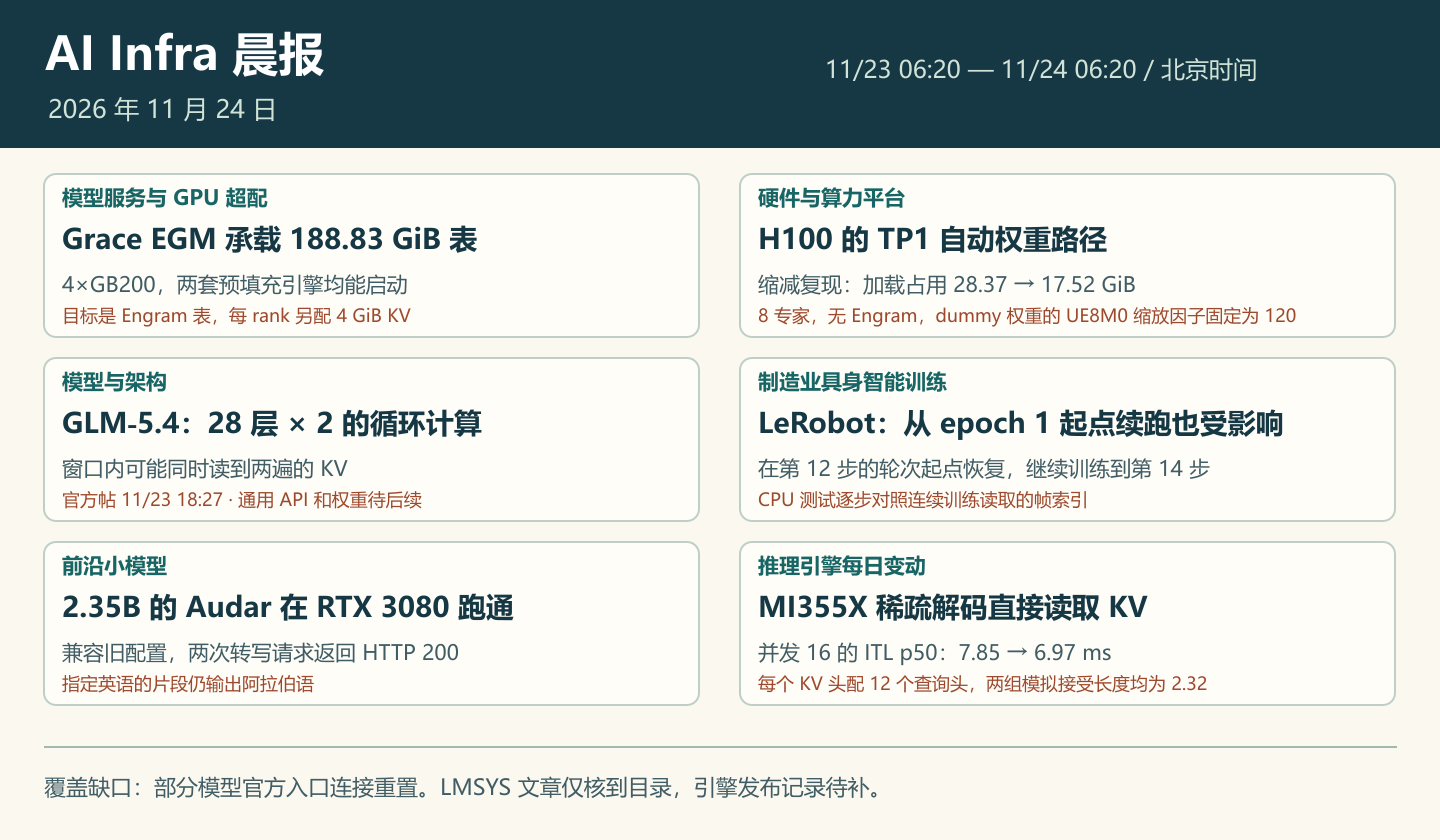
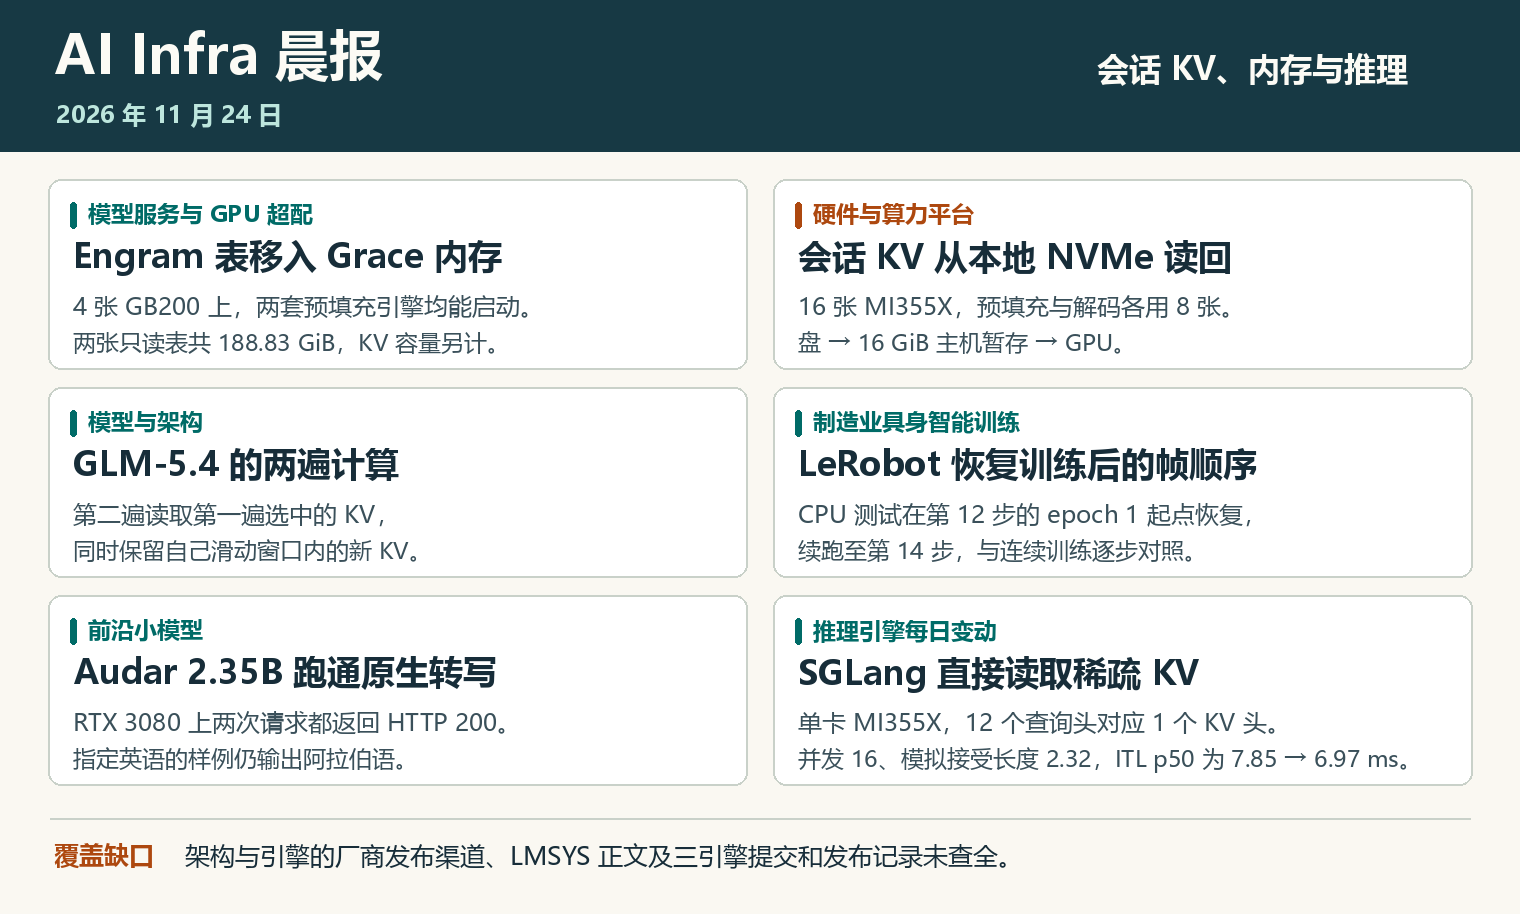
docs(report): 修正 11 月 24 日晨报的来源与实验条件

Changed region(s): [[0.0, 0.031, 1.0, 0.9595], [0.5625, 0.0619, 0.9375, 0.0929]]

diff --git a/reports/2026-11-24/articles/small-model-status.md b/reports/2026-11-24/articles/small-model-status.md
@@ -1,11 +1,11 @@
 # 前沿小模型：2.35B 的 Audar 在 RTX 3080 跑通转写，英语片段仍需单独测
 
-部署语音模型要先回答两个问题：服务能否加载现有权重，以及它能否按要求转写。北京时间 11 月 23 日 23:01，vLLM 合入 #69226，修复 Audar-ASR-V1-Turbo 所用的一种旧配置写法。作者模型库可定位到同一 BF16 快照 `371428bea4`，仓库记录的最近修改日期为 8 月 20 日。本期的变化是引擎兼容性。[合入 PR](https://github.com/vllm-project/vllm/pull/69226) · [作者的固定模型版本](https://huggingface.co/audarai/Audar-ASR-V1-Turbo/tree/371428bea487c7aec82b27dc21f8d4324002e98e)
+部署语音模型要先回答两个问题：服务能否加载现有权重，以及它能否按要求转写。北京时间 11 月 23 日 23:01，vLLM 合入 #69226，修复 Audar-ASR-V1-Turbo 所用的一种旧配置写法。作者模型库可定位到同一 BF16 快照 `371428bea4`，仓库记录的最近修改日期为 8 月 20 日。本期的变化是引擎兼容性。[合入 PR](https://github.com/vllm-project/vllm/pull/69226) · [作者的固定模型版本](https://huggingface.co/api/models/audarai/Audar-ASR-V1-Turbo/revision/371428bea487c7aec82b27dc21f8d4324002e98e?blobs=true)
 
-固定模型卡列出音频编码器约 0.32B、语言模型解码器约 2.03B，总计 2,349,217,408 个参数。根目录 BF16 权重文件为 4,698,521,568 字节（约 4.38 GiB）。这是文件大小，推理还要为激活值和运行状态留出显存。[固定模型卡](https://huggingface.co/audarai/Audar-ASR-V1-Turbo/blob/371428bea487c7aec82b27dc21f8d4324002e98e/README.md) · [固定权重清单](https://huggingface.co/api/models/audarai/Audar-ASR-V1-Turbo/revision/371428bea487c7aec82b27dc21f8d4324002e98e?blobs=true)
+固定模型卡列出音频编码器约 0.32B、语言模型解码器约 2.03B，总计 2,349,217,408 个参数。根目录 BF16 权重文件为 4,698,521,568 字节（约 4.38 GiB）。这是文件大小，推理还要为激活值和运行状态留出显存。[固定模型卡](https://huggingface.co/audarai/Audar-ASR-V1-Turbo/raw/371428bea487c7aec82b27dc21f8d4324002e98e/README.md) · [固定权重清单](https://huggingface.co/api/models/audarai/Audar-ASR-V1-Turbo/revision/371428bea487c7aec82b27dc21f8d4324002e98e?blobs=true)
 
-旧快照在语音模型的文本子配置使用 `qwen3_asr_text`，原生加载器无法识别。修复在原始嵌套 Qwen3‑ASR 配置分支中，统一将文本子配置的 `model_type` 写为 `qwen3`。PR 作者在同一张 RTX 3080 上用相同的 vLLM 命令和参数测试，双方均未启用模型仓库自带的执行代码。基线在初始化时报告子配置类型未知；应用补丁后，服务就绪，两次转写请求均返回 HTTP 200。[启动记录](https://github.com/vllm-project/vllm/pull/69226) · [代码和测试差异](https://github.com/vllm-project/vllm/pull/69226/files) · [固定配置](https://huggingface.co/audarai/Audar-ASR-V1-Turbo/raw/371428bea487c7aec82b27dc21f8d4324002e98e/config.json)
+旧快照在语音模型的文本子配置使用 `qwen3_asr_text`，原生加载器无法识别。修复在原始嵌套 Qwen3‑ASR 配置分支中，统一将文本子配置的 `model_type` 写为 `qwen3`。PR 作者在同一张 RTX 3080 上用相同的 vLLM 命令和参数测试，双方均未启用模型仓库自带的执行代码。基线在初始化时报告子配置类型未知；应用补丁后，服务就绪，两次转写请求均返回 HTTP 200。[启动记录](https://github.com/vllm-project/vllm/pull/69226) · [代码和测试差异](https://patch-diff.githubusercontent.com/raw/vllm-project/vllm/pull/69226.diff) · [固定配置](https://huggingface.co/audarai/Audar-ASR-V1-Turbo/raw/371428bea487c7aec82b27dc21f8d4324002e98e/config.json)
 
-一段公开英语音频指定 `language=en` 后仍返回阿拉伯语。这个样例足以说明语言行为值得复测，不能用两次 HTTP 200 来给转写质量打分。模型卡另报阿拉伯语 ASR 榜单平均词错率（WER）23.2%、平均字符错率（CER）9.2%。这组榜单成绩与补丁作者在 RTX 3080 上的两次请求来自不同实验。在自己的音频和语言条件下，仍要分别核对词错率、实时率和峰值显存。[模型卡的评测范围](https://huggingface.co/audarai/Audar-ASR-V1-Turbo/blob/371428bea487c7aec82b27dc21f8d4324002e98e/README.md) [转写示例及限制](https://github.com/vllm-project/vllm/pull/69226)
+一段公开英语音频指定 `language=en` 后仍返回阿拉伯语。这个样例足以说明语言行为值得复测，不能用两次 HTTP 200 来给转写质量打分。模型卡另报六个阿拉伯语 ASR 测试集的平均词错率（WER）23.17%、平均字符错率（CER）9.20%。这组榜单成绩与补丁作者在 RTX 3080 上的两次请求来自不同实验。在自己的音频和语言条件下，仍要分别核对词错率、实时率和峰值显存。[模型卡的评测范围](https://huggingface.co/audarai/Audar-ASR-V1-Turbo/raw/371428bea487c7aec82b27dc21f8d4324002e98e/README.md) [转写示例及限制](https://github.com/vllm-project/vllm/pull/69226)
 
 本期另查了 HuggingFaceTB、Google Gemma 和 Microsoft Phi 的模型列表，每个入口取回 50 项，所查范围没有主窗内的创建或修改记录。[三个目录之一：HuggingFaceTB](https://huggingface.co/api/models?author=HuggingFaceTB&direction=-1&expand=createdAt&expand=lastModified&expand=sha&limit=50&sort=lastModified)

diff --git a/reports/2026-11-24/articles/inference-engines.md b/reports/2026-11-24/articles/inference-engines.md
@@ -2,11 +2,13 @@
 
 ## vLLM
 
-本期合并查询返回 61 项。服务篇讨论 #68685 的 Grace EGM 后备，硬件篇讨论 #69446 的 H100 权重路径。两项各自在所属专题计一次。合并查询本身不确认稳定版本已收录。[Engram 内存后备](https://github.com/vllm-project/vllm/pull/68685) · [H100 加载路径](https://github.com/vllm-project/vllm/pull/69446)
+本期 24 小时合并 PR 查询返回 61 项。#68685 的 Engram 表移入 Grace 内存，详见服务篇。vLLM 官方仓库另有 MoRI 会话存储的系统说明，硬件篇梳理了磁盘读回与跨节点传输的区别。[当窗合并查询](https://api.github.com/search/issues?order=desc&page=1&per_page=100&q=repo%3Avllm-project%2Fvllm+is%3Apr+merged%3A2026-11-22T22%3A20%3A00Z..2026-11-23T22%3A20%3A00Z&sort=updated) · [MoRI 系统原文](https://raw.githubusercontent.com/vllm-project/vllm-project.github.io/main/_posts/2026-11-23-skip-the-dram-tier.md)
 
 ## SGLang
 
-SGLang 的合并查询返回 24 项。北京时间 11 月 23 日 21:44 合入的 #45196（`ac0380c`） 在符合条件的 gfx950 QSA 解码上接入 AITER 的 FlyDSL 稀疏内核。启用 HIP 上的 AITER 路径且相应模块可用时，代码还要求 gfx950、BF16 query、BF16 或 FP8 KV、head_dim 256、每个 KV 头对应的查询头数不超过 16。PR 的 TP1 用例有 24 个查询头、2 个 KV 头，因此每个 KV 头对应 12 个查询头。满足条件后，内核通过 `req_to_token` 直接从池中读选中的 KV，并把每行选择的工作分给多个线程块，省去旧路径写入临时缓冲区的往返。不满足条件时走原回退路径。[实现差异](https://github.com/sgl-project/sglang/pull/45196/files) 实测为单张 MI355X、Qwen3.8-Flash-Next Quark MXFP4、TP1。在 agenticX 并发 16 的负载上，ITL p50 从 7.85 降到 6.97 ms。性能对照两侧都设置了 2.32 的模拟 MTP 接受长度，因而这组数字只反映该设置下的服务表现。[作者的内核路径与测量表](https://github.com/sgl-project/sglang/pull/45196)
+SGLang 的合并查询返回 24 项。[当窗合并查询](https://api.github.com/search/issues?order=desc&page=1&per_page=100&q=repo%3Asgl-project%2Fsglang+is%3Apr+merged%3A2026-11-22T22%3A20%3A00Z..2026-11-23T22%3A20%3A00Z&sort=updated)
+
+北京时间 11 月 23 日 21:44 合入的 #45196（`ac0380c`） 在符合条件的 gfx950 QSA 解码上接入 AITER 的 FlyDSL 稀疏内核。启用 HIP 上的 AITER 路径且相应模块可用时，代码还要求 gfx950、BF16 query、BF16 或 FP8 KV、head_dim 256、每个 KV 头对应的查询头数不超过 16。PR 的 TP1 用例有 24 个查询头、2 个 KV 头，因此每个 KV 头对应 12 个查询头。满足条件后，内核通过 `req_to_token` 直接从池中读选中的 KV，并把每行选择的工作分给多个线程块，省去旧路径写入临时缓冲区的往返。不满足条件时走原回退路径。[实现差异](https://github.com/sgl-project/sglang/pull/45196/files) 实测为单张 MI355X、Qwen3.8-Flash-Next Quark MXFP4、TP1。在 agenticX 并发 16 的负载上，ITL p50 从 7.85 降到 6.97 ms。性能对照两侧都设置了 2.32 的模拟 MTP 接受长度，因而这组数字只反映该设置下的服务表现。[作者的内核路径与测量表](https://github.com/sgl-project/sglang/pull/45196)
 
 另一个调度修复 #52494 先进入 `release/v1.0.0`，#52510 将同一提交移植到主线，两次合并只算一项修复。[原修复](https://github.com/sgl-project/sglang/pull/52494) · [主线移植](https://github.com/sgl-project/sglang/pull/52510)
 
@@ -14,4 +16,6 @@ LMSYS 官方目录收录了一篇标注为 11 月 23 日的 SGLang 与 Miles 文
 
 ## DeepInfer
 
-同一 24 小时合并 PR 查询返回 0 项。这个结果仅限于该入口。项目 [README](https://raw.githubusercontent.com/deepseek-ai/DeepInfer/HEAD/README.md) 可以核对引擎支持范围；当天的分支提交与版本发布仍待相应记录确认。[当窗合并查询](https://api.github.com/search/issues?order=desc&page=1&per_page=100&q=repo%3Adeepseek-ai%2FDeepInfer+is%3Apr+merged%3A2026-11-22T22%3A20%3A00Z..2026-11-23T22%3A20%3A00Z&sort=updated)
+同一 24 小时合并 PR 查询返回 0 项。这个结果仅限于该入口。项目 [README](https://raw.githubusercontent.com/deepseek-ai/DeepInfer/HEAD/README.md) 可以核对引擎支持范围；本期只据该查询说明合并结果。[当窗合并查询](https://api.github.com/search/issues?order=desc&page=1&per_page=100&q=repo%3Adeepseek-ai%2FDeepInfer+is%3Apr+merged%3A2026-11-22T22%3A20%3A00Z..2026-11-23T22%3A20%3A00Z&sort=updated)
+
+这三家仓库的查询都限定为已合并 PR。单独提交、稳定版发布和截止时间以后的回退记录未查全。上文的合入时间只说明代码进入对应分支。SGLang 官方博客所查卡片最新标注为 11 月 12 日；LMSYS 的 11 月 23 日条目仅取得目录摘要。[SGLang 官方博客](https://www.sglang.io/blog) · [LMSYS 目录](https://www.lmsys.org/blog/)

diff --git a/reports/2026-11-24/articles/hardware-status.md b/reports/2026-11-24/articles/hardware-status.md
@@ -1,5 +1,16 @@
-# 硬件与算力平台：H100 上的 MXFP8 路径为何影响 DeepSeek‑V4.1 的权重加载
+# 硬件与算力平台：MI355X 如何从本地 NVMe 读回会话 KV
 
-北京时间 11 月 24 日 04:02，#69446 合入主线（`822bbd5`）。vLLM #69446 处理 H100（SM90）在 TP1 下的 MXFP8 线性层选择。原问题报告在 8×H100、TP1/DP8/EP8 上看到每卡权重加载内存从 47.67 升到 60.21 GiB。补丁在 SM90、TP1 且由系统自动选择 MXFP8 后端时保留平台原有的 MXFP8 内核，避免默认保留 BF16 权重和打包 FP8 副本。TP2 及以上、显式指定后端和其他架构沿用各自路径。[实现差异](https://github.com/vllm-project/vllm/pull/69446/files) [问题报告](https://github.com/vllm-project/vllm/issues/68647) · [补丁作者说明](https://github.com/vllm-project/vllm/pull/69446)
+一段多轮会话回到预填充节点时，GPU 需要重新取得前几轮留下的状态。AMD 与 Embedded LLM 在 vLLM 官方仓库记录了 Kimi-K3 的一种部署方式。16 张 MI355X 分在两个节点上，一个节点用 8 张卡做预填充，另一个用 8 张卡做解码。两端各自采用 TP8 和 DCP8，KV 缓存使用 FP8。Kimi-K3 的池里同时保存 MLA 层的 KV 块和线性注意力层的状态检查点。[系统配置与模型说明](https://raw.githubusercontent.com/vllm-project/vllm-project.github.io/main/_posts/2026-11-23-skip-the-dram-tier.md)
 
-作者的复现保留稠密层形状，使用 dummy 权重，把路由专家从 384 缩到 8，并关闭 Engram。普通 dummy 权重的 UE8M0 缩放因子是随机值，会让 `pack_for_gemv` 拒绝打包。作者在测试中先用 `scales.fill_(120)` 把缩放因子统一设为 120，旧版自动路径才生成用于 GEMV 的 FP8 权重副本。在这个设置下，H100 TP1 的加载内存由旧版的 28.37 GiB 降至补丁后的 17.52 GiB，实测差值为 10.85 GiB。作者对原八卡配置的估算是计入 MTP 和 Engram 后每卡节省约 12.4 GiB。部署时要验证这个数，应在原八卡配置上用完整权重重测，并分别记录加载占用与推理时的峰值。[复现配置和测量表](https://github.com/vllm-project/vllm/pull/69446)
+## 同一会话再次命中磁盘时，数据经过哪里
+
+主配置中，每个节点装有两块 Micron 7450 PRO NVMe，每块 3.84 TB，分别格式化为 ext4，没有组 RAID。附录还记录了另一对节点上的无写缓冲复测：池使用两块 3.84 TB 的 XFS 盘，写缓冲设为策略允许的最小值 4 MiB。多数实验把池放在预填充节点。新写入的块先进入主机写缓冲区，随后落到本地盘。后续请求命中已经落盘的块时，UMBP 在 Linux 6.8 下通过 io_uring 发起直接 I/O，绕过 Linux 页缓存，先将数据读入 **16 GiB 主机暂存区**，随后再复制到 GPU。绕过页缓存后，读路径依然占用主机内存。估算这套机器能为会话留多少空间时，要分开计算盘容量、写缓冲区和读暂存区。[数据路径示意与实验配置](https://raw.githubusercontent.com/vllm-project/vllm-project.github.io/main/_posts/2026-11-23-skip-the-dram-tier.md)
+
+## 两种 RDMA 流量各自传什么
+
+| 场景 | 搬运者与数据去向 |
+| --- | --- |
+| 预填充完成，请求转入解码 | 预填充节点通过 MoRIIO 把该请求的 KV 经 RDMA 发给解码节点。即使池只在预填充节点，这段传输也存在。 |
+| 同一个存储池跨两个节点 | UMBP 自行通过 RDMA 在池节点之间搬运块。每个节点仍使用自己的本地盘，实验未使用 NVMe-oF 或共享文件系统。 |
+
+核对类似部署时，可以分别计量磁盘命中后的读回、主机到 GPU 的复制，以及预填充到解码的传输。三者出现在不同环节，单看网络流量无法判断是哪一段拖慢了会话恢复。官方仓库文档只标注 **11 月 23 日**，本页记录其系统布局。16 张卡和两块盘是这组实验的配置，文章没有给出通用最低规格。[官方原文及附录](https://raw.githubusercontent.com/vllm-project/vllm-project.github.io/main/_posts/2026-11-23-skip-the-dram-tier.md)

diff --git a/reports/2026-11-24/articles/model-architecture-status.md b/reports/2026-11-24/articles/model-architecture-status.md
@@ -14,8 +14,14 @@
 
 | 使用方式 | 已核实的范围 |
 | --- | --- |
-| 托管入口 | 公告说明已有指定托管方式可用。ZCode FAQ 列出 Lite、Pro、Max 和 Team，并说明其产品范围内的 1M 上下文。 |
+| 托管入口 | ZCode FAQ 列出 Lite、Pro、Max 和 Team，并说明其产品范围内的 1M 上下文。 |
 | 通用开发者 API | 官方帖子称将在安全评估后开放。现有材料没有给出通用 API 的可用模型 ID、开放时间或额度。 |
 | 本地权重 | 官方表示计划开放权重。本次读取的 zai-org Hugging Face 目录有 154 项，其中没有 GLM‑5.4 同名条目，尚无固定权重修订、分片和许可可供部署核验。 |
 
 在托管入口测试自己的工作负载是当前可做的验证。评估本地超配则仍需取得权重和运行实现，先核正确性，再在明确的硬件、上下文与并发条件下量显存、延迟和吞吐。FAQ 的 1M 说明不能代替这些测量。[ZCode FAQ](https://zcode.z.ai/en/docs/qa) · [官方公告帖](https://x.com/Zai_org/status/2124811995912286352) · [zai-org 模型目录](https://huggingface.co/api/models?author=zai-org&direction=-1&expand=createdAt&expand=lastModified&expand=sha&limit=1000&sort=createdAt)
+
+## 这次查到了哪些发布渠道
+
+智谱的官方账号公告、技术文章和 ZCode FAQ 分别支撑发布时间、循环机制和托管范围。智谱研究时间线、API 发布说明和 ModelScope 入口在取件时连接中断。模型目录的 154 项只能说明这次在 Hugging Face 看到了什么。[官方账号](https://x.com/Zai_org) · [官方模型目录](https://huggingface.co/api/models?author=zai-org&direction=-1&expand=createdAt&expand=lastModified&expand=sha&limit=1000&sort=createdAt)
+
+在 DeepSeek 的 106 项和 Qwen 的 469 项 Hugging Face 目录记录中，未见本次 24 小时窗口内创建或修改的条目。DeepSeek 新闻和 Qwen 英文文章入口连接中断，其他项目发布与权重渠道也未查全，因此这两个目录不足以判断两家当天的全部发布。[DeepSeek 模型目录](https://huggingface.co/api/models?author=deepseek-ai&direction=-1&expand=createdAt&expand=lastModified&expand=sha&limit=1000&sort=createdAt) · [Qwen 模型目录](https://huggingface.co/api/models?author=Qwen&direction=-1&expand=createdAt&expand=lastModified&expand=sha&limit=1000&sort=createdAt)
